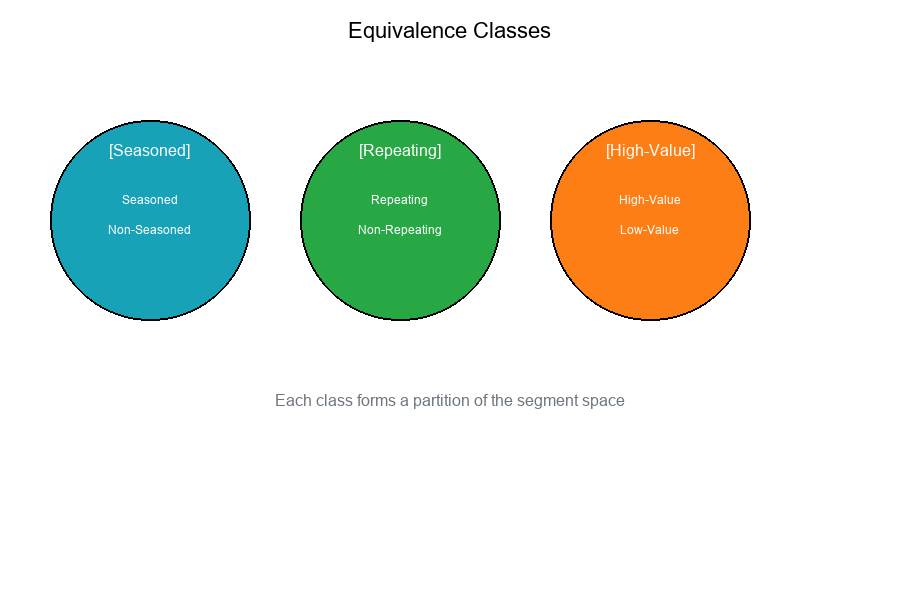
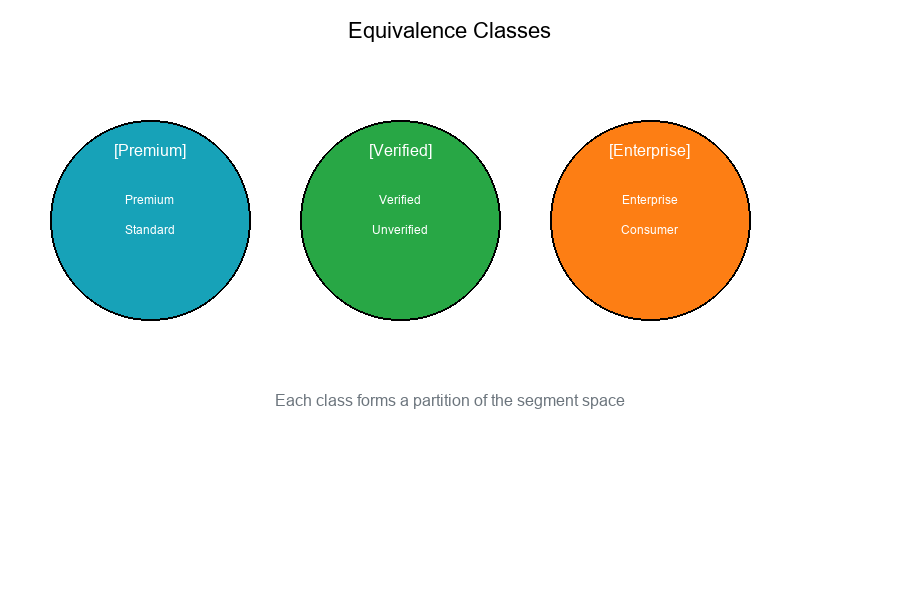
Update DS-25: Rename to Configuration Pairing, regenerate images with generic terminology

diff --git a/create_ds25_to_ds30_images.py b/create_ds25_to_ds30_images.py
@@ -62,14 +62,14 @@ def create_ds25_images():
     print("Creating DS-25 images...")
     
     # Header
-    img, draw = create_header(25, "Threshold Pairing Logic", "Equivalence Classes and Consistency", PURPLE)
+    img, draw = create_header(25, "Configuration Pairing Logic", "Equivalence Classes and Consistency", PURPLE)
     
     # Bipartite graph visual
     left_x = 300
     right_x = 900
     y_positions = [300, 400, 500]
     
-    pairs = [("Seasoned", "Non-Seasoned"), ("Repeating", "Non-Repeating"), ("High-Value", "Low-Value")]
+    pairs = [("Premium", "Standard"), ("Verified", "Unverified"), ("Enterprise", "Consumer")]
     colors = [BLUE, GREEN, ORANGE]
     
     for i, ((left, right), color) in enumerate(zip(pairs, colors)):
@@ -90,9 +90,9 @@ def create_ds25_images():
     draw.text((450, 30), "Equivalence Classes", fill='black', font=font_large, anchor='mm')
     
     classes = [
-        ("[Seasoned]", ["Seasoned", "Non-Seasoned"], BLUE),
-        ("[Repeating]", ["Repeating", "Non-Repeating"], GREEN),
-        ("[High-Value]", ["High-Value", "Low-Value"], ORANGE),
+        ("[Premium]", ["Premium", "Standard"], BLUE),
+        ("[Verified]", ["Verified", "Unverified"], GREEN),
+        ("[Enterprise]", ["Enterprise", "Consumer"], ORANGE),
     ]
     
     for i, (name, members, color) in enumerate(classes):
@@ -131,16 +131,16 @@ def create_ds25_images():
     draw.text((450, 30), "Mapping Functions: translate_bindings", fill='black', font=font_large, anchor='mm')
     
     draw.rectangle([(100, 100), (350, 200)], fill=LIGHT_BLUE, outline=BLUE, width=2)
-    draw.text((225, 130), "Seasoned Config", fill=BLUE, font=font_medium, anchor='mm')
-    draw.text((225, 160), "threshold: 0.30", fill='black', font=font_small, anchor='mm')
+    draw.text((225, 130), "Premium Config", fill=BLUE, font=font_medium, anchor='mm')
+    draw.text((225, 160), "score: 0.30", fill='black', font=font_small, anchor='mm')
     
     draw.text((450, 150), "→ transform →", fill=GRAY, font=font_medium, anchor='mm')
     
     draw.rectangle([(550, 100), (800, 200)], fill=LIGHT_GREEN, outline=GREEN, width=2)
-    draw.text((675, 130), "Non-Seasoned Config", fill=GREEN, font=font_medium, anchor='mm')
-    draw.text((675, 160), "threshold: 0.24", fill='black', font=font_small, anchor='mm')
+    draw.text((675, 130), "Standard Config", fill=GREEN, font=font_medium, anchor='mm')
+    draw.text((675, 160), "score: 0.24", fill='black', font=font_small, anchor='mm')
     
-    draw.text((450, 280), "Mapping: threshold × 0.8 = 0.24", fill=PURPLE, font=font_medium, anchor='mm')
+    draw.text((450, 280), "Mapping: score × 0.8 = 0.24", fill=PURPLE, font=font_medium, anchor='mm')
     img.save('public/DS-25/mapping_functions.png')
     
     # Bipartite matching
@@ -148,16 +148,16 @@ def create_ds25_images():
     draw = ImageDraw.Draw(img)
     draw.text((450, 30), "Bipartite Graph: Perfect Matching", fill='black', font=font_large, anchor='mm')
     
-    left_nodes = [("Seasoned", 150), ("Repeating", 250), ("High-Value", 350)]
-    right_nodes = [("Non-Seasoned", 150), ("Non-Repeating", 250), ("Low-Value", 350)]
+    left_nodes = [("Premium", 150), ("Verified", 250), ("Enterprise", 350)]
+    right_nodes = [("Standard", 150), ("Unverified", 250), ("Consumer", 350)]
     
     for name, y in left_nodes:
         draw.ellipse([180, y, 280, y + 40], fill=BLUE, outline='black', width=2)
-        draw.text((230, y + 20), name[:7], fill='white', font=font_small, anchor='mm')
+        draw.text((230, y + 20), name[:8], fill='white', font=font_small, anchor='mm')
     
     for name, y in right_nodes:
         draw.ellipse([620, y, 720, y + 40], fill=GREEN, outline='black', width=2)
-        draw.text((670, y + 20), name[:7], fill='white', font=font_small, anchor='mm')
+        draw.text((670, y + 20), name[:8], fill='white', font=font_small, anchor='mm')
     
     for (_, y1), (_, y2) in zip(left_nodes, right_nodes):
         draw.line([(280, y1 + 20), (620, y2 + 20)], fill=PURPLE, width=3)
@@ -168,16 +168,16 @@ def create_ds25_images():
     # Validate pairs
     img = Image.new('RGB', (900, 500), color='white')
     draw = ImageDraw.Draw(img)
-    draw.text((450, 30), "validate_and_pair_threshold_sets", fill='black', font=font_large, anchor='mm')
+    draw.text((450, 30), "validate_and_pair_segments", fill='black', font=font_large, anchor='mm')
     
     draw.rectangle([(100, 100), (400, 250)], fill=LIGHT_GREEN, outline=GREEN, width=2)
     draw.text((250, 120), "Valid Pairs ✓", fill=GREEN, font=font_medium, anchor='mm')
-    draw.text((250, 160), "(Seasoned, Non-Seasoned)", fill='black', font=font_small, anchor='mm')
-    draw.text((250, 190), "(Repeating, Non-Repeating)", fill='black', font=font_small, anchor='mm')
+    draw.text((250, 160), "(Premium, Standard)", fill='black', font=font_small, anchor='mm')
+    draw.text((250, 190), "(Verified, Unverified)", fill='black', font=font_small, anchor='mm')
     
     draw.rectangle([(500, 100), (800, 250)], fill=LIGHT_RED, outline=RED, width=2)
     draw.text((650, 120), "Errors ✗", fill=RED, font=font_medium, anchor='mm')
-    draw.text((650, 160), "Missing: Non-Repeating", fill='black', font=font_small, anchor='mm')
+    draw.text((650, 160), "Missing: Unverified", fill='black', font=font_small, anchor='mm')
     draw.text((650, 190), "Param mismatch: ...", fill='black', font=font_small, anchor='mm')
     
     img.save('public/DS-25/validate_pairs.png')
@@ -188,12 +188,12 @@ def create_ds25_images():
     draw.text((450, 30), "Floor Fill-In for Missing Values", fill='black', font=font_large, anchor='mm')
     
     draw.rectangle([(100, 100), (400, 200)], fill=LIGHT_BLUE, outline=BLUE, width=2)
-    draw.text((250, 130), "Primary (Seasoned)", fill=BLUE, font=font_medium, anchor='mm')
-    draw.text((250, 170), "threshold_low: 0.30", fill='black', font=font_small, anchor='mm')
+    draw.text((250, 130), "Primary (Premium)", fill=BLUE, font=font_medium, anchor='mm')
+    draw.text((250, 170), "score_low: 0.30", fill='black', font=font_small, anchor='mm')
     
     draw.rectangle([(500, 100), (800, 200)], fill=LIGHT_GREEN, outline=GREEN, width=2)
-    draw.text((650, 130), "Complement (Non-Seasoned)", fill=GREEN, font=font_medium, anchor='mm')
-    draw.text((650, 170), "threshold_low: undefined → 0.30", fill='black', font=font_small, anchor='mm')
+    draw.text((650, 130), "Complement (Standard)", fill=GREEN, font=font_medium, anchor='mm')
+    draw.text((650, 170), "score_low: undefined → 0.30", fill='black', font=font_small, anchor='mm')
     
     draw.text((450, 280), "Floor from paired segment fills missing values", fill=PURPLE, font=font_medium, anchor='mm')
     img.save('public/DS-25/floor_fillin.png')

diff --git a/_content/DS-25.md b/_content/DS-25.md
@@ -1,6 +1,6 @@
 ---
 Id: 1025
-Title: "Day 25: Segment Pairing Logic and Equivalence Classes"
+Title: "Day 25: Configuration Pairing Logic and Equivalence Classes"
 Author: Sughosh P Dixit
 Date: "2025-11-25"
 Tags: Data Science Equivalence Relations Pairing Logic Configuration Sets Bipartite Matching Set Theory
@@ -10,7 +10,7 @@ HeaderImage: /DS-25/threshold_pairing_intro.png
 isPublished: true
 ---
 
-# **Day 25: Segment Pairing Logic and Equivalence Classes** 🔗🎯
+# **Day 25: Configuration Pairing Logic and Equivalence Classes** 🔗🎯
 
 <p style={{fontStyle: 'italic', color: '#666', marginTop: '1rem', textAlign: 'center'}}>Pair semantically complementary sets and ensure consistency across segment configurations.</p>
 
